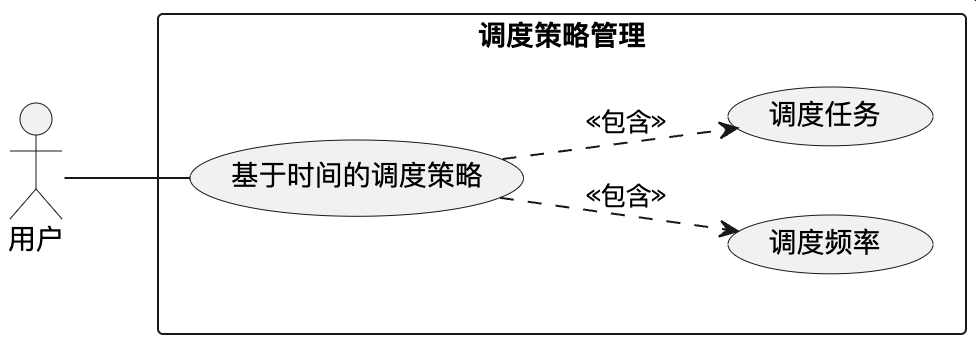
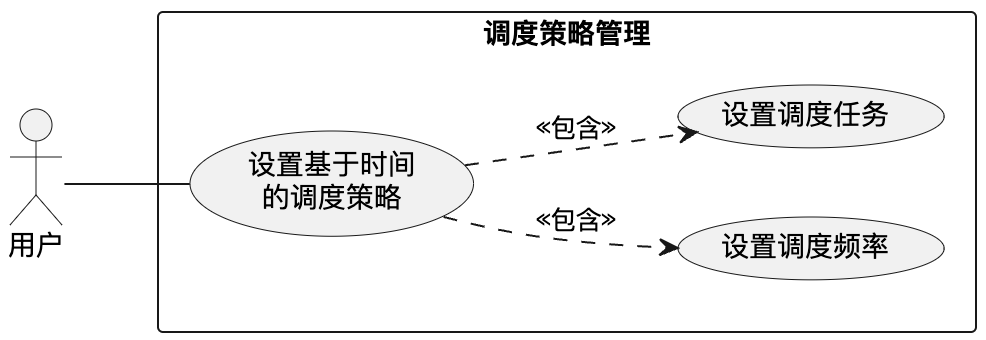
修改错字 && 修改插图错误

diff --git a/chapters/chapter3.tex b/chapters/chapter3.tex
@@ -222,54 +222,13 @@
   \label{adaptive_communication_yongli}
 \end{figure}
 
-
-
-
-
-% \subsection{进程间通信方式管理}
-% 进程间通信方式决定了两个不同进程间发布者于订阅者通信的效率。用户希望进程间通信方式可以契合自动
-% 驾驶系统通信的特点，可以根据用户实际需要来自由地选择进程间通信方式，而不是由系统本身强制用户使用规定的通信方式。
-% 当用户需要在单车内传输数据量较大的数据如图片时，可以选用共享内存进行数据传输；当传输IMU（惯性测量单元等）等数据量较小
-% 的数据时，可以选用网络进行数据传输。
-% 因此，进程间通信方式管理是核心需求之一，进程间通信方式管理包括设置进程间通信方式与修改进程间通信方式。从通信方式的视角来看，
-% 该用例的角色限定为订阅者。
-
-% 修改进程间通信方式分为两种修改模式，立即修改与安全修改。立即修改修改模式下，系统将立即删除该通信节点的通信链路并
-% 重新建立新的通信链路；安全修改模式下，系统将提前通知修改通信方式后受影响的通信单元，待剩余数据发送接收
-% 完成后再重新建立通信链路。通信模式管理用例图如图3.7所示。
-
-% 本节以设置进程间通信方式用例为例进行说明，如表3.5所示：
-% \begin{table}[H]
-%   \centering\small
-%   \caption{设置进程间通信方式用例说明}
-%   \label{tab:exampletable}
-%   \begin{tabular}{ll}
-%     \toprule
-%     \multicolumn{1}{l}{用例名称} & \multicolumn{1}{l}{设置通信模式}  \\
-%     \midrule
-%     行为角色 & 订阅者\\
-%     用例说明 & 设置通信单元的通信方式；\\
-%     前置条件 & 正确填写相关参数；\\
-%     后置条件 & 设置通信方式成功，返回成功状态码；\\
-%     基本流   & \makecell[l]{1.设置进程间通信模式；\\2.设置进程间通信方式成功，系统返回注册成功；}\\
-%     异常流   & \makecell[l]{1a.未正确设置进程间通信方式或进程间通信方式非法，设置失败；}\\
-%     \bottomrule
-%   \end{tabular}
-% \end{table}
-% \begin{figure}[H]
-%   \centering
-%   \includegraphics[width=0.8\textwidth]{3.7.png}
-%   \caption{进程间通信方式管理用例图}
-%   \label{fig:badge}
-% \end{figure}
-
 \subsection{调度策略管理}
 自动驾驶对通信系统需求不仅是对通信功能的需求，还包含对任务调度方式的需求。同通信性能本身对整个通信
 系统性能表现的影响程度，调度策略的选择一样重要。
 
 在自动驾驶系统中，会存在多种传感器如摄像头、LiDAR（激光雷达）、IMU（惯性测量单元）等。自动驾驶对传感器发送
 数据的频率有着较为严格的要求，通常会限定某个传感器在某个时间段内的平均频率为稳定在系统可接受范围内。针对此类
-定频任务的实际需求，采用基于时间出发的调度策略即每秒固定调度次数是较好的解决方法；传感器作为自动驾驶最上游的数据，
+定频任务的实际需求，采用基于时间触发的调度策略即每秒固定调度次数是较好的解决方法；传感器作为自动驾驶最上游的数据，
 最终要经过处理供下游业务模块使用，而大多下游模块并不需要像传感器一样要求较为稳定的频率发送信息。此类业务模块
 只需要关注何时收到了数据，并将数据运用到实际业务中，所以基于消息的调度策略适合该类任务的调度需求。
 由此得出，系统需要提供调度策略管理功能给用户。调度策略管理提供给用户设置基于时间触发调度策略的功能，基于消息触发的
@@ -282,7 +241,7 @@
   \label{schedul_yongli}
 \end{figure}
 
-本节以设置基于时间触发调度策略用例为例进行说明，如表\ref{set_scheduler_yongli}所示。
+用户选用基于时间触发的调度策略时，需要手动设定调度任务和调度频率，本节以设置基于时间触发调度策略用例为例进行说明，如表\ref{set_scheduler_yongli}所示。
 
 \begin{table}[H]
   \centering\small
